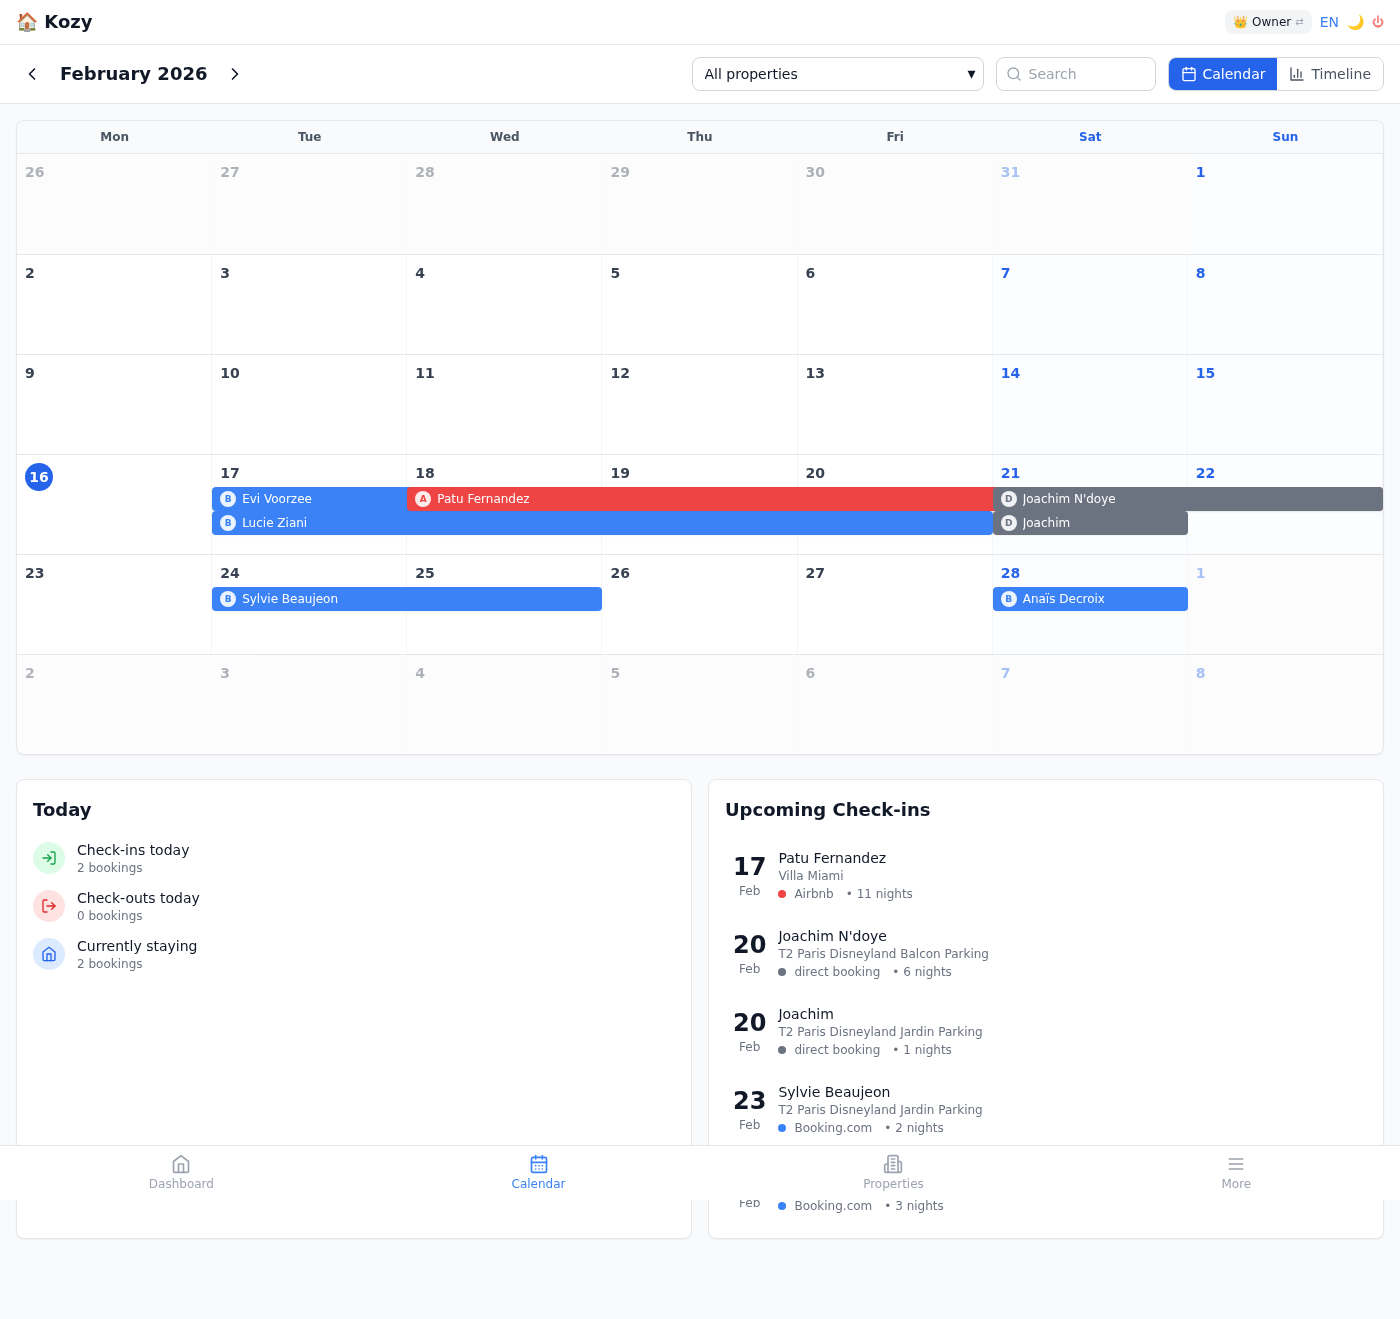
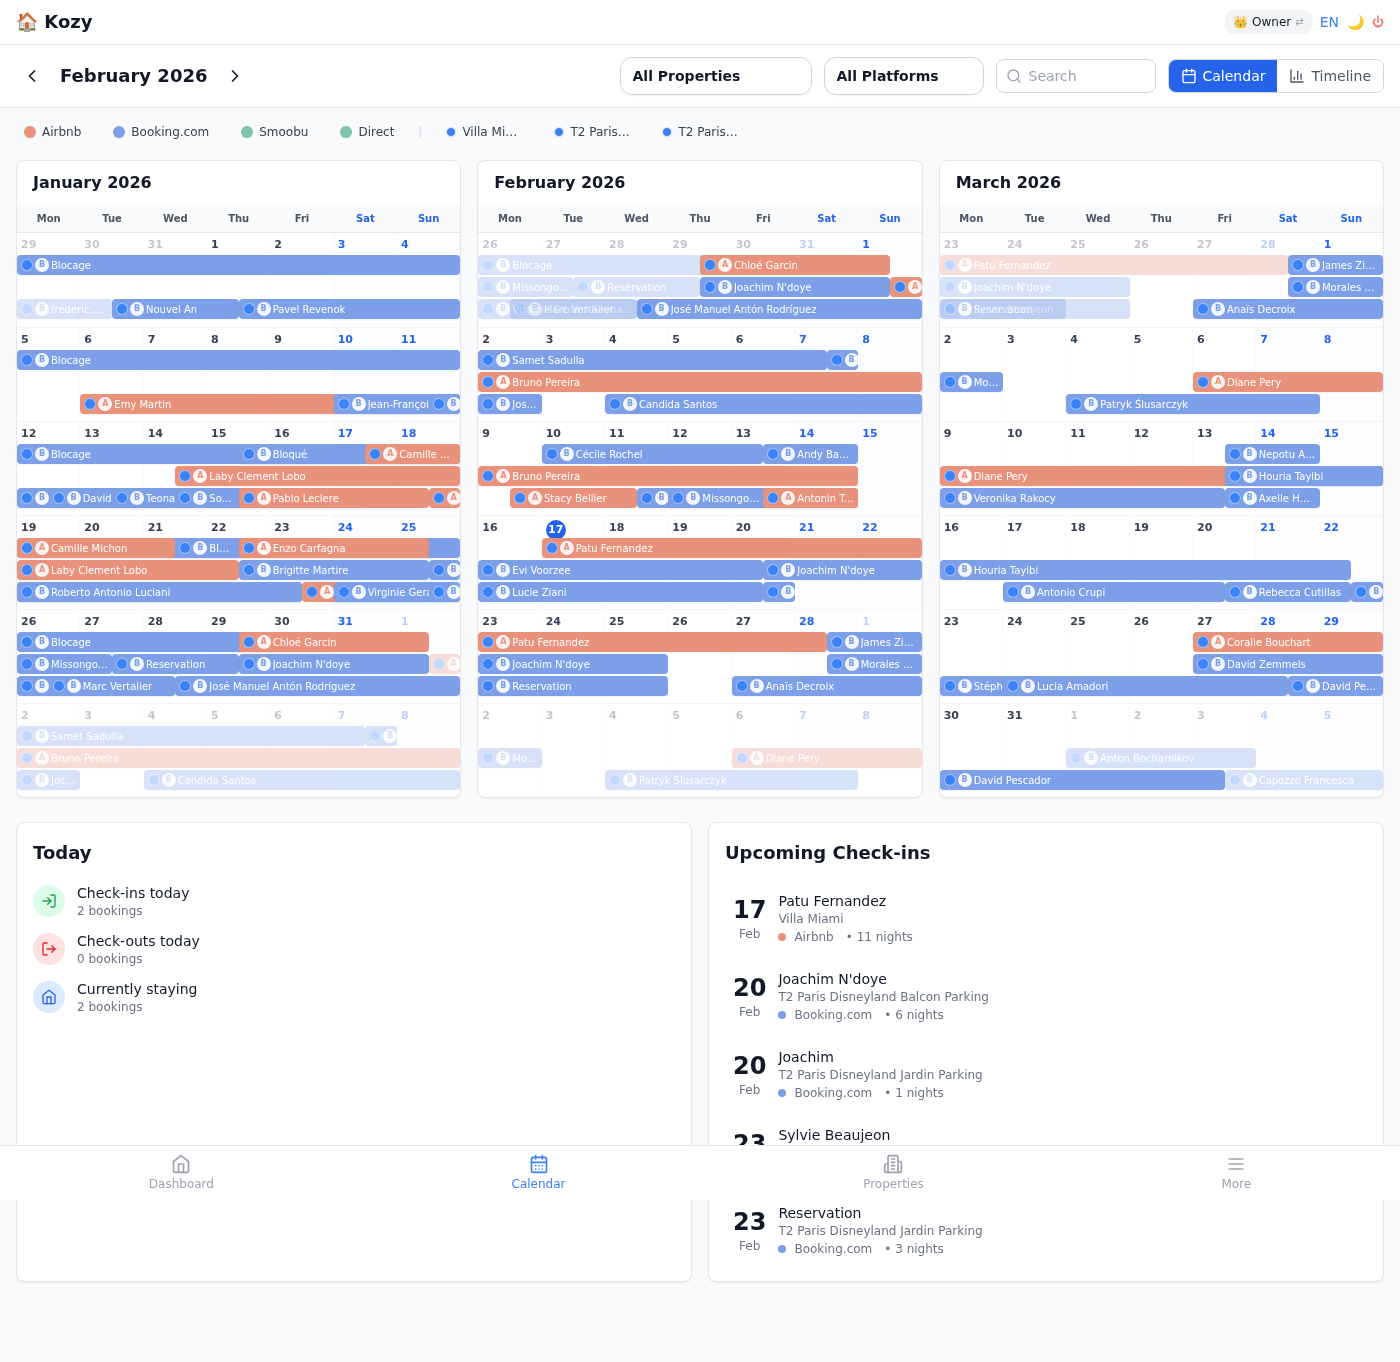
fix: hide cancelled bookings in calendar (filter status frontend)

diff --git a/frontend/src/pages/owner/Calendar.tsx b/frontend/src/pages/owner/Calendar.tsx
@@ -28,6 +28,7 @@ interface Booking {
   source: string;
   property_name: string;
   property_color: string;
+  status?: string;
 }
 
 // Source-based colors (muted pastels)
@@ -427,8 +428,6 @@ export default function Calendar() {
     return '';
   }, [selectedSources]);
 
-  const displayPropertyId = useMemo(() =&gt; selectedPropertyIds.length === 0 ? '' : selectedPropertyIds[0]?.toString() ?? '', [selectedPropertyIds]);
-  const displaySource = useMemo(() =&gt; selectedSources.length === 0 ? '' : selectedSources[0], [selectedSources]);
 
   const locale = lang === 'fr' ? 'fr-FR' : 'en-US';
   const year = currentDate.getFullYear();
